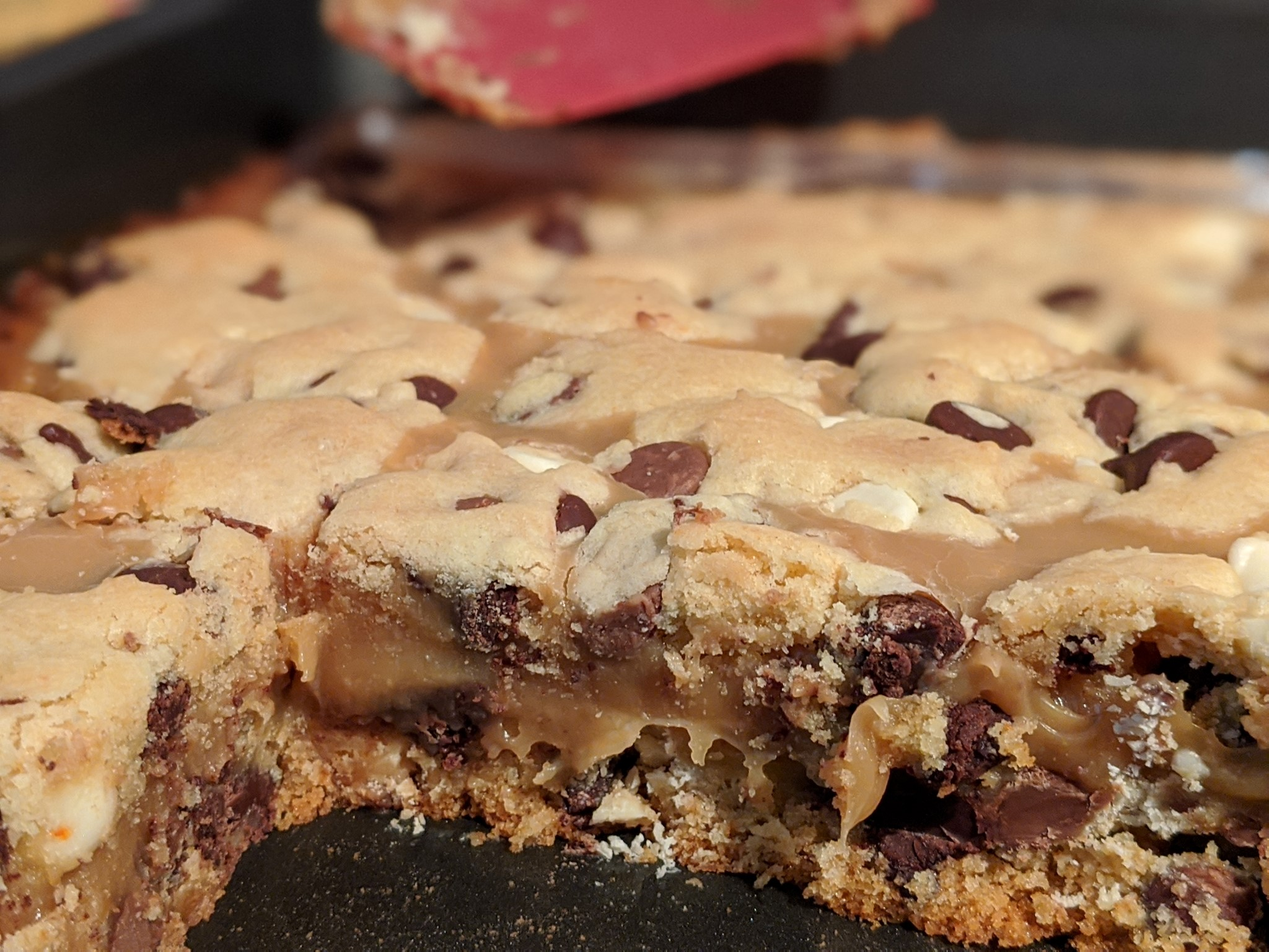
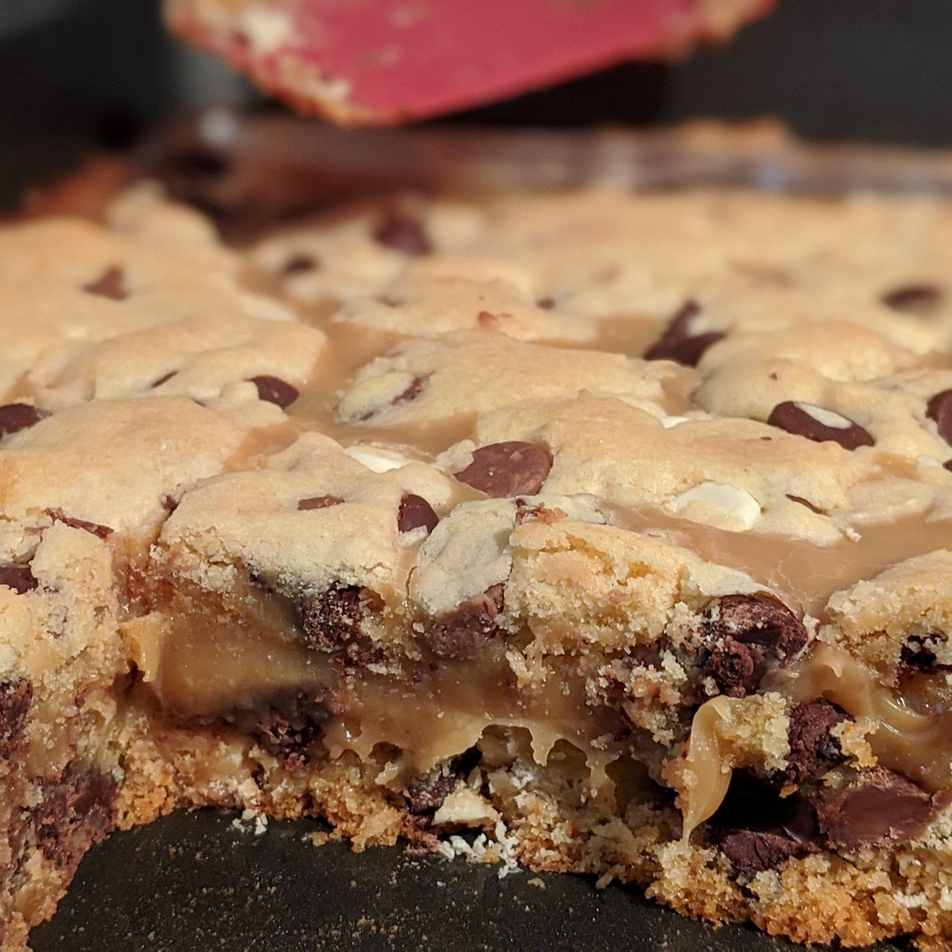
Cropped image to be 1:1
Edited css to fix mobile display issues

diff --git a/css/recipe.scss b/css/recipe.scss
@@ -13,7 +13,7 @@
         height: 15rem;
         width: 15rem;
         margin-right: 1rem;
-        object-fit: cover;
+        object-fit: contain;
     }
 
     #text {
@@ -68,41 +68,6 @@
     }
 }
 
-@media only screen and (max-width: 1400px) {
-    #recipe {
-        #directions {
-            flex: 0 0 65%;
-        }
-
-        #notes {
-            padding-right: 60%;
-        }
-    }
-}
-
-@media only screen and (max-width: 850px) {
-    #recipe {
-        flex-direction: column;
-
-        #ingredients {
-            flex: auto;
-            border-right: none;
-            border-bottom: 1px solid slategray;
-        }
-
-        #directions {
-            flex: auto;
-            border-bottom: 1px solid slategray;
-        }
-
-        #notes {
-            margin-top: auto;
-            border: none;
-            padding-right: 0;
-        }
-    }
-}
-
 /*recipe style*/
 #recipe {
 
@@ -122,5 +87,48 @@
 
     #directions li {
         line-height: 1.75rem;
+    }
+}
+
+/*reactive style*/
+@media only screen and (max-width: 1400px) {
+    #recipe {
+        #directions {
+            flex: 0 0 65%;
+        }
+
+        #notes {
+            padding-right: 60%;
+        }
+    }
+}
+
+@media only screen and (max-width: 850px) {
+    #heading {
+        img {
+            max-width: 40%;
+            
+        }
+    }
+
+    #recipe {
+        flex-direction: column;
+
+        #ingredients {
+            flex: auto;
+            border-right: none;
+            border-bottom: 1px solid slategray;
+        }
+
+        #directions {
+            flex: auto;
+            border-bottom: 1px solid slategray;
+        }
+
+        #notes {
+            margin-top: auto;
+            border: none;
+            padding-right: 0;
+        }
     }
 }
